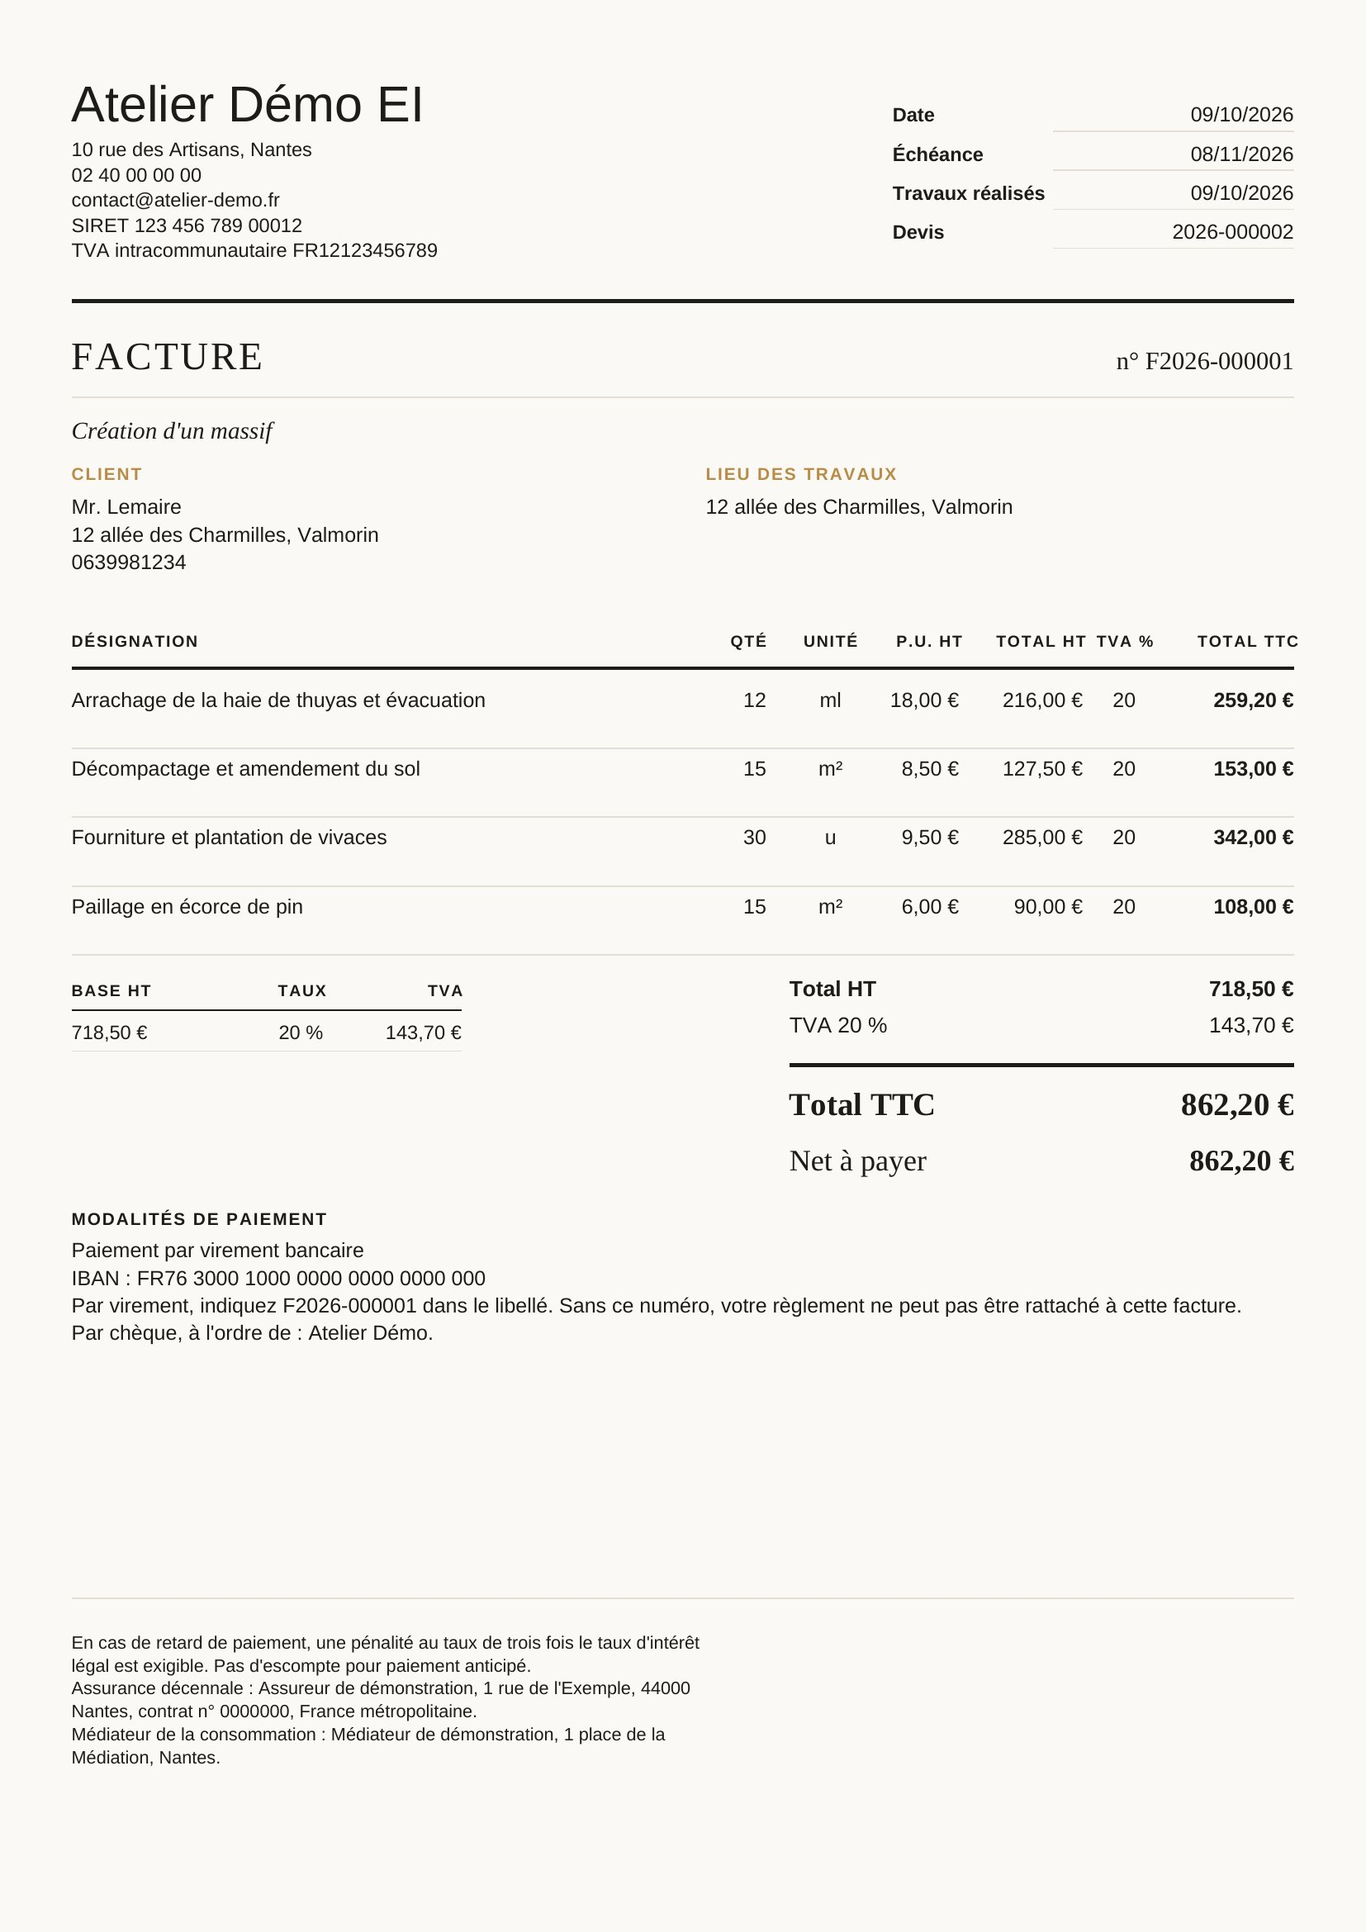
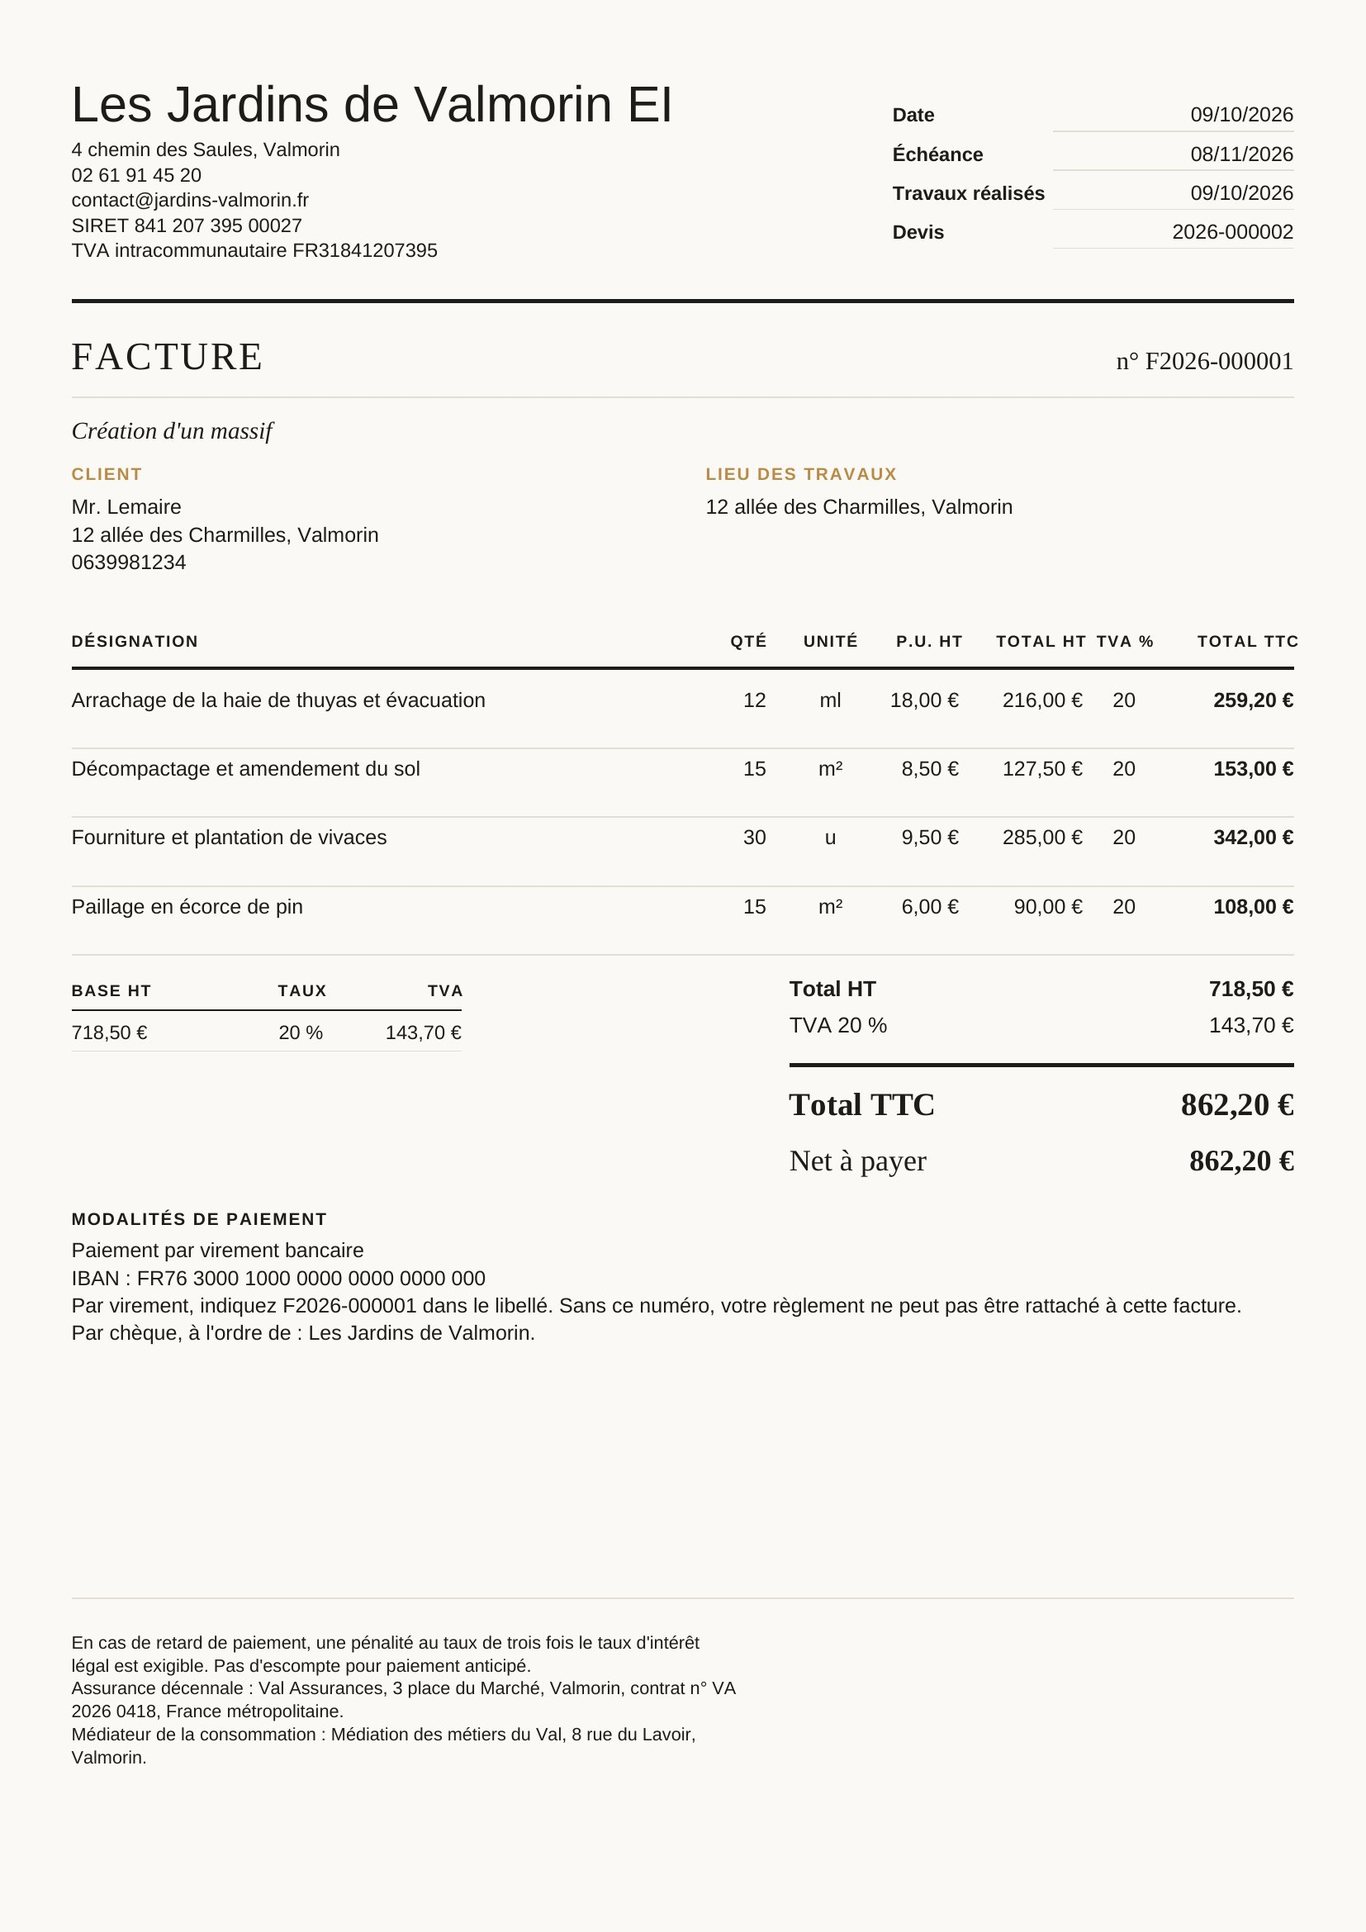
Donner au site de vente une entreprise fictive, un menu, un contact et des mentions légales
Il ne voulait plus voir « Atelier Démo », ni de coordonnées qui puissent
appartenir à quelqu'un. Les captures sont refaites par de vrais gestes,
au nom des « Jardins de Valmorin » : ville inventée, téléphones dans les
tranches de fiction de l'ARCEP, SIREN et TVA invalides par construction.

Il trouvait aussi le site trop « tunnel » : un menu ouvre les rubriques,
une section Contact porte un formulaire, un pied de page relie l'aide et
le légal, et une page de mentions légales en donne la structure. Les
coordonnées de l'éditeur restent « à compléter », comme dans les
conditions générales : les inventer serait puni par la LCEN.

Claude-Session: https://claude.ai/code/session_01NQoyfwDaCHL2WnQ4DJVN7i

diff --git a/appli/vente/chapitres.html b/appli/vente/chapitres.html
@@ -46,6 +46,17 @@
   chiffre d'usage : il n'en existe pas encore. Les boutons « Essayer »
   mènent au bas de la page tant que l'adresse de l'application n'est pas
   donnée.
+  L'ENTREPRISE DES CAPTURES EST FICTIVE, et choisie pour ne gêner personne
+  (sa demande du 9 octobre : « ne mets pas Atelier Démo », « des adresses et
+  des numéros fictifs ») : « Les Jardins de Valmorin », ville inventée,
+  téléphones dans les tranches que l'ARCEP réserve à la fiction (02 61 91,
+  06 39 98), SIREN qui échoue à la clé de Luhn et TVA à clé fausse, donc
+  impossibles à attribuer. Devis, page client, facture et accueil ont été
+  refaits par de vrais gestes dans l'application, sur une base locale.
+
+  LE CONTACT ET LES MENTIONS LÉGALES sont structurés, pas remplis : les
+  coordonnées de l'éditeur sont « à compléter » dans les conditions générales
+  elles-mêmes, et les inventer est puni (LCEN, article 1-2).
 -->
 <style>
 :root{
@@ -176,6 +187,39 @@ section{padding:clamp(88px,16vw,160px) 0}
 .formule.reine li.fort{font-weight:600;color:#f1d6a4}
 .formule.reine .bandeau{position:absolute;top:-13px;left:24px;padding:7px 14px;border-radius:999px;background:linear-gradient(135deg,#f0d29a,#c08a45);color:#1b241d;font:600 12.5px/1 var(--texte);letter-spacing:.06em;text-transform:uppercase}
 .formule.reine .bouton{background:linear-gradient(135deg,#f0d29a,#c08a45);color:#1b241d;box-shadow:none;font-weight:600}
+/* Le menu : un site se parcourt par rubriques, pas seulement de haut en bas. */
+.barre .droite{display:flex;align-items:center;gap:8px}
+.ouvre-menu{border:0;background:transparent;color:var(--encre);font:500 14px/1 var(--texte);padding:10px 12px;min-height:44px;cursor:pointer}
+.menu{position:fixed;inset:0;z-index:30;background:var(--fond);padding:88px 24px 32px;display:none;flex-direction:column}
+.menu.ouvert{display:flex}
+.menu a{font:400 clamp(40px,11vw,64px)/1.15 var(--display);text-decoration:none;padding:6px 0;border-bottom:1px solid var(--trait)}
+.menu .ferme{position:absolute;top:6px;right:max(16px,env(safe-area-inset-right));border:0;background:transparent;color:var(--encre);font:500 14px/1 var(--texte);padding:12px;min-height:44px;cursor:pointer}
+.menu .bouton{margin-top:32px;justify-content:center;font:500 17px/1 var(--texte);border:0}
+
+/* Le contact : un formulaire, et les coordonnées de l'éditeur. */
+.contact form{display:grid;gap:14px;margin-top:40px}
+.contact label{display:grid;gap:6px;font-size:14px;color:var(--encre-2)}
+.contact input,.contact select,.contact textarea{font:400 17px/1.4 var(--texte);color:var(--encre);background:var(--fond);border:1px solid var(--trait);border-radius:14px;padding:14px 16px;min-height:52px;width:100%;box-sizing:border-box}
+.contact textarea{min-height:130px;resize:vertical}
+.contact .bouton{border:0;cursor:pointer;justify-content:center;margin-top:8px}
+.contact .reponse-maquette{margin-top:6px;font-size:15px;color:var(--encre-2);min-height:22px}
+.coordonnees{margin-top:48px;display:grid;gap:0}
+.coordonnees div{display:flex;justify-content:space-between;gap:16px;padding:14px 0;border-top:1px solid var(--trait);font-size:16px}
+.coordonnees div:last-child{border-bottom:1px solid var(--trait)}
+.coordonnees dt{color:var(--encre-2)}
+.coordonnees dd{margin:0;text-align:right}
+.a-completer{display:inline-block;padding:3px 10px;border:1px dashed var(--or);border-radius:999px;color:var(--or);font-size:14px}
+
+/* Le pied de page : les rubriques, l'aide, le légal. */
+.pied{background:var(--nuit);color:var(--sur-nuit);padding:64px 0 40px;border-top:1px solid rgba(236,232,220,.08)}
+.pied .marque{font-size:34px;color:var(--sur-nuit)}
+.pied .devise{margin-top:10px;color:var(--sur-nuit-2);font-size:16px}
+.pied nav{display:grid;grid-template-columns:1fr 1fr;gap:32px 24px;margin-top:44px}
+@media (min-width:900px){.pied nav{grid-template-columns:repeat(3,1fr)}}
+.pied h3{font:600 12.5px/1 var(--texte);letter-spacing:.12em;text-transform:uppercase;color:#d9b06d}
+.pied ul{list-style:none;padding:0;margin:14px 0 0}
+.pied li a{display:block;padding:7px 0;color:var(--sur-nuit);text-decoration:none;font-size:16px}
+.pied .bas{margin-top:48px;padding-top:20px;border-top:1px solid rgba(236,232,220,.12);color:var(--sur-nuit-2);font-size:14px}
 .essai-note{margin-top:22px;text-align:center;color:var(--encre-2);font-size:16px}
 
 .questions details{border-top:1px solid var(--trait);padding:20px 0}
@@ -196,8 +240,20 @@ section{padding:clamp(88px,16vw,160px) 0}
 
 <header class="barre">
   <a class="marque" href="index.html">Atlas</a>
-  <a class="lien-demo" href="#essayer">Essai gratuit</a>
+  <div class="droite">
+    <button type="button" class="ouvre-menu" aria-expanded="false" aria-controls="menu">Menu</button>
+    <a class="lien-demo" href="#essayer">Essai gratuit</a>
+  </div>
 </header>
+
+<nav class="menu" id="menu" aria-label="Rubriques">
+  <button type="button" class="ferme">Fermer</button>
+  <a href="#fonctionnement">Comment ça marche</a>
+  <a href="#prix">Les prix</a>
+  <a href="#questions">Vos questions</a>
+  <a href="#contact">Contact</a>
+  <a class="bouton" href="#essayer">Essayer 15 jours gratuits</a>
+</nav>
 
 <section class="ouverture">
   <div class="colonne">
@@ -224,7 +280,7 @@ section{padding:clamp(88px,16vw,160px) 0}
   </div>
 </section>
 
-<section class="chapitre">
+<section class="chapitre" id="fonctionnement">
   <div class="colonne">
     <h2 class="mot revele">Dictez.</h2>
     <p class="chapo revele">Vous décrivez le chantier sur place, à voix haute. Atlas écrit le devis.</p>
@@ -365,7 +421,7 @@ section{padding:clamp(88px,16vw,160px) 0}
   </div>
 </section>
 
-<section class="questions">
+<section class="questions" id="questions">
   <div class="colonne">
     <h2 class="mot revele" style="font-size:clamp(56px,15vw,120px)">Vos questions.</h2>
     <div style="margin-top:40px">
@@ -389,8 +445,67 @@ section{padding:clamp(88px,16vw,160px) 0}
   </div>
 </section>
 
+<section class="contact papier" id="contact">
+  <div class="colonne">
+    <h2 class="mot revele" style="font-size:clamp(64px,18vw,140px)">Contact.</h2>
+    <p class="chapo revele">Une question avant d'essayer ? On vous répond.</p>
+    <form class="revele" id="formulaire-contact">
+      <label>Votre nom<input name="nom" autocomplete="name" required></label>
+      <label>Téléphone<input name="telephone" type="tel" autocomplete="tel"></label>
+      <label>E-mail<input name="email" type="email" autocomplete="email" required></label>
+      <label>Votre métier<select name="metier"><option>Paysagiste</option><option>Élagueur</option><option>Autre artisan</option></select></label>
+      <label>Votre message<textarea name="message" required></textarea></label>
+      <button class="bouton" type="submit">Envoyer</button>
+      <p class="reponse-maquette" aria-live="polite"></p>
+    </form>
+    <dl class="coordonnees revele">
+      <div><dt>E-mail</dt><dd><span class="a-completer">à compléter</span></dd></div>
+      <div><dt>Téléphone</dt><dd><span class="a-completer">à compléter</span></dd></div>
+      <div><dt>Adresse</dt><dd><span class="a-completer">à compléter</span></dd></div>
+    </dl>
+  </div>
+</section>
+
+<footer class="pied">
+  <div class="colonne">
+    <a class="marque" href="#">Atlas</a>
+    <p class="devise">Le logiciel des paysagistes et des élagueurs.</p>
+    <nav aria-label="Pied de page">
+      <div><h3>Atlas</h3><ul>
+        <li><a href="#fonctionnement">Comment ça marche</a></li>
+        <li><a href="#prix">Les prix</a></li>
+        <li><a href="#essayer">Essai gratuit</a></li>
+      </ul></div>
+      <div><h3>Aide</h3><ul>
+        <li><a href="#questions">Vos questions</a></li>
+        <li><a href="#contact">Contact</a></li>
+      </ul></div>
+      <div><h3>Légal</h3><ul>
+        <li><a href="mentions-legales.html#mentions">Mentions légales</a></li>
+        <li><a href="mentions-legales.html#conditions">Conditions générales</a></li>
+        <li><a href="mentions-legales.html#donnees">Données personnelles</a></li>
+        <li><a href="mentions-legales.html#cookies">Cookies</a></li>
+      </ul></div>
+    </nav>
+    <p class="bas">© 2026 Atlas. Prix hors taxes.</p>
+  </div>
+</footer>
+
 <script>
 (function(){
+  // Le menu s'ouvre en plein écran et se referme dès qu'une rubrique est choisie.
+  var menu = document.getElementById("menu"), ouvre = document.querySelector(".ouvre-menu");
+  function basculer(ouvert){ menu.classList.toggle("ouvert", ouvert); ouvre.setAttribute("aria-expanded", String(ouvert)); document.documentElement.style.overflow = ouvert ? "hidden" : ""; }
+  ouvre.addEventListener("click", function(){ basculer(true); });
+  menu.querySelector(".ferme").addEventListener("click", function(){ basculer(false); });
+  menu.querySelectorAll("a").forEach(function(a){ a.addEventListener("click", function(){ basculer(false); }); });
+
+  // La maquette n'a pas de serveur : le formulaire le dit au lieu de faire semblant d'envoyer.
+  document.getElementById("formulaire-contact").addEventListener("submit", function(e){
+    e.preventDefault();
+    this.querySelector(".reponse-maquette").textContent = "Maquette : ce formulaire n'envoie encore rien.";
+  });
+
   // Le mois ou l'année : le prix de chaque carte vient de ses attributs, recopiés
   // de src/lib/abonnements.ts (l'année vaut dix mois, deux sont offerts).
   var boutonsPeriode = document.querySelectorAll(".bascule button");

diff --git a/appli/vente/mentions-legales.html b/appli/vente/mentions-legales.html
@@ -1,0 +1,128 @@
+<!doctype html>
+<html lang="fr">
+<head>
+<meta charset="utf-8">
+<meta name="viewport" content="width=device-width, initial-scale=1, viewport-fit=cover">
+<title>Atlas, informations légales</title>
+<meta name="description" content="Planche : les mentions légales du site de vente d'Atlas.">
+<link rel="preconnect" href="https://fonts.googleapis.com">
+<link rel="preconnect" href="https://fonts.gstatic.com" crossorigin>
+<link rel="stylesheet" href="https://fonts.googleapis.com/css2?family=Instrument+Serif&family=Hanken+Grotesk:wght@400;500;600&display=swap">
+<!--
+  PLANCHE, rien n'est codé dans l'application.
+
+  Sa question du 8 octobre 2026, après quatre essais de transitions refusés :
+  « qu'est-ce que les équipes design chez Apple auraient proposé ? ». La
+  réponse tient dans la construction, pas dans un effet : quatre ou cinq
+  moments au lieu de douze écrans, un mot géant par chapitre, le détail en
+  grand plutôt que l'écran entier en petit, et un mouvement qui ne sert qu'à
+  révéler. Elle vit à côté de defilement.html pour qu'il compare les deux.
+
+  Toutes les images sont les captures du chantier Lemaire (defilement.html dit
+  comment elles ont été prises), et les gros plans en sont des recadrages
+  (images/chap-*.jpg) : rien n'est redessiné.
+
+  Le « 17 minutes » proposé dans la conversation n'est PAS écrit : aucun temps
+  n'a été mesuré chez un utilisateur. La phrase qui le remplace dit ce que
+  l'application permet vraiment : envoyer le devis depuis le chantier.
+
+  La page du client (images/accord-entier.jpg) est la capture accord.jpg,
+  prolongée vers le bas par la même page capturée le 9 octobre au même état
+  (date choisie, case cochée) : seuls « Je ne donne pas suite » et la mention
+  d'horodatage viennent de la seconde, qui ne portent aucune donnée.
+
+  Les outils (arrosage, diagnostic) ne figurent pas : sa demande, le site
+  reste sur le devis, le planning, la facture et la TVA.
+
+  LE SITE COMPLET, ses réponses du 9 octobre : les prix s'affichent ; l'essai
+  de 15 jours est dans les formules ; pas d'adresse de contact encore ; pas de
+  parcours personnel, « il faut vendre l'appli » ; la facture électronique
+  n'est pas disponible, chaque utilisateur pourra relier son compte.
+  La cible, tranchée le même jour : les paysagistes ET les élagueurs, pas
+  « les artisans » en général, que l'appli ne sert pas encore.
+  Tout ce qui est écrit sur les formules vient de src/lib/abonnements.ts
+  (prix, lignes, essai Illimité sans carte), et ce qui est dit de la
+  résiliation vient des conditions générales (article 12). Aucun avis, aucun
+  chiffre d'usage : il n'en existe pas encore. Les boutons « Essayer »
+  mènent au bas de la page tant que l'adresse de l'application n'est pas
+  donnée.
+-->
+<!--
+  Les mentions légales du site de vente. Chaque case vide l'est délibérément :
+  les mêmes champs sont « [À COMPLÉTER] » dans les conditions générales
+  (src/server/documents-legaux/versions.ts), et les remplir au plausible est
+  puni par l'article 1-2 de la LCEN. Le patron les fournit, on les recopie.
+-->
+<style>
+:root{
+  --fond:#f3f1ea;--papier:#fbfaf6;--encre:#1c211b;--encre-2:#5c6258;
+  --pin:#2f3b2f;--sauge:#7e9c6c;--or:#b0823f;--trait:#ddd7c8;--bouton-texte:#faf8f3;
+  --nuit:#1b241d;--sur-nuit:#ece8dc;--sur-nuit-2:#a9b3a2;
+  --ombre:28,33,27;
+  --display:"Instrument Serif","Iowan Old Style",Georgia,serif;
+  --texte:"Hanken Grotesk",system-ui,-apple-system,"Segoe UI",sans-serif;
+  color-scheme:light;
+}
+@media (prefers-color-scheme: dark){
+  :root:not([data-theme="light"]){
+    --fond:#141b16;--papier:#1a231d;--encre:#ece8dc;--encre-2:#a9b3a2;
+    --pin:#cfd8c4;--sauge:#8fae7c;--or:#cf9f58;--trait:#2e3b31;--bouton-texte:#141b16;
+    --nuit:#0e1410;--ombre:0,0,0;color-scheme:dark;
+  }
+}
+:root[data-theme="dark"]{
+  --fond:#141b16;--papier:#1a231d;--encre:#ece8dc;--encre-2:#a9b3a2;
+  --pin:#cfd8c4;--sauge:#8fae7c;--or:#cf9f58;--trait:#2e3b31;--bouton-texte:#141b16;
+  --nuit:#0e1410;--ombre:0,0,0;color-scheme:dark;
+}
+*{box-sizing:border-box}
+html{overflow-x:clip}
+body{margin:0;background:var(--fond);color:var(--encre);font:400 18px/1.55 var(--texte);-webkit-font-smoothing:antialiased}
+a{color:inherit}
+body{margin:0;background:var(--fond);color:var(--encre);font:400 17px/1.6 var(--texte);-webkit-font-smoothing:antialiased}
+.colonne{max-width:720px;margin:0 auto;padding:32px 16px 80px}
+.retour{display:inline-block;padding:12px 0;font:500 15px/1 var(--texte);text-decoration:none;color:var(--encre-2)}
+h1{font:400 clamp(52px,14vw,96px)/1 var(--display);margin:24px 0 8px;letter-spacing:-.015em}
+h2{font:400 34px/1.1 var(--display);margin:56px 0 16px;scroll-margin-top:24px}
+p{margin:0 0 12px;color:var(--encre-2)}
+dl{margin:0}
+dl div{display:flex;justify-content:space-between;gap:16px;padding:13px 0;border-top:1px solid var(--trait)}
+dl div:last-child{border-bottom:1px solid var(--trait)}
+dt{color:var(--encre-2)}
+dd{margin:0;text-align:right}
+.a-completer{display:inline-block;padding:3px 10px;border:1px dashed var(--or);border-radius:999px;color:var(--or);font-size:14px;white-space:nowrap}
+</style>
+</head>
+<body>
+<main class="colonne">
+  <a class="retour" href="chapitres.html">Retour au site</a>
+  <h1>Informations légales.</h1>
+
+  <h2 id="mentions">Mentions légales</h2>
+  <dl>
+    <div><dt>Éditeur</dt><dd><span class="a-completer">à compléter</span></dd></div>
+    <div><dt>Forme juridique et capital</dt><dd><span class="a-completer">à compléter</span></dd></div>
+    <div><dt>Siège social</dt><dd><span class="a-completer">à compléter</span></dd></div>
+    <div><dt>RCS et SIREN</dt><dd><span class="a-completer">à compléter</span></dd></div>
+    <div><dt>TVA intracommunautaire</dt><dd><span class="a-completer">à compléter</span></dd></div>
+    <div><dt>Directeur de la publication</dt><dd><span class="a-completer">à compléter</span></dd></div>
+    <div><dt>Téléphone</dt><dd><span class="a-completer">à compléter</span></dd></div>
+    <div><dt>E-mail</dt><dd><span class="a-completer">à compléter</span></dd></div>
+    <div><dt>Hébergeur</dt><dd><span class="a-completer">à compléter</span></dd></div>
+  </dl>
+
+  <h2 id="conditions">Conditions générales</h2>
+  <p>Elles s'acceptent à la création du compte, dans Atlas.</p>
+
+  <h2 id="donnees">Données personnelles</h2>
+  <p>Vos clients, vos prix et vos chantiers ne sont visibles que par votre équipe.</p>
+  <dl>
+    <div><dt>Responsable du traitement</dt><dd><span class="a-completer">à compléter</span></dd></div>
+    <div><dt>Pour exercer vos droits</dt><dd><span class="a-completer">à compléter</span></dd></div>
+  </dl>
+
+  <h2 id="cookies">Cookies</h2>
+  <p>Ce site ne dépose aucun cookie.</p>
+</main>
+</body>
+</html>

diff --git a/CHANGELOG.md b/CHANGELOG.md
@@ -6,6 +6,16 @@ ajustements de test ne figurent pas ici : `git log` les porte déjà.
 Format : le plus récent en tête.
 
 ---
+## 2026-10-09
+
+- **Site de vente : une entreprise fictive, un menu, un contact et des mentions
+  légales.** « Atelier Démo » disparaît des captures au profit des « Jardins
+  de Valmorin », dont chaque numéro est impossible à attribuer (tranches de
+  fiction de l'ARCEP, SIREN invalide). Le site n'est plus un tunnel : menu de
+  rubriques, section Contact avec formulaire, pied de page, et une page
+  `appli/vente/mentions-legales.html` dont les cases de l'éditeur restent « à
+  compléter » tant que le patron ne les a pas données.
+
 ## 2026-10-08
 
 ### Planche : le site de vente devient complet, écrit pour vendre
